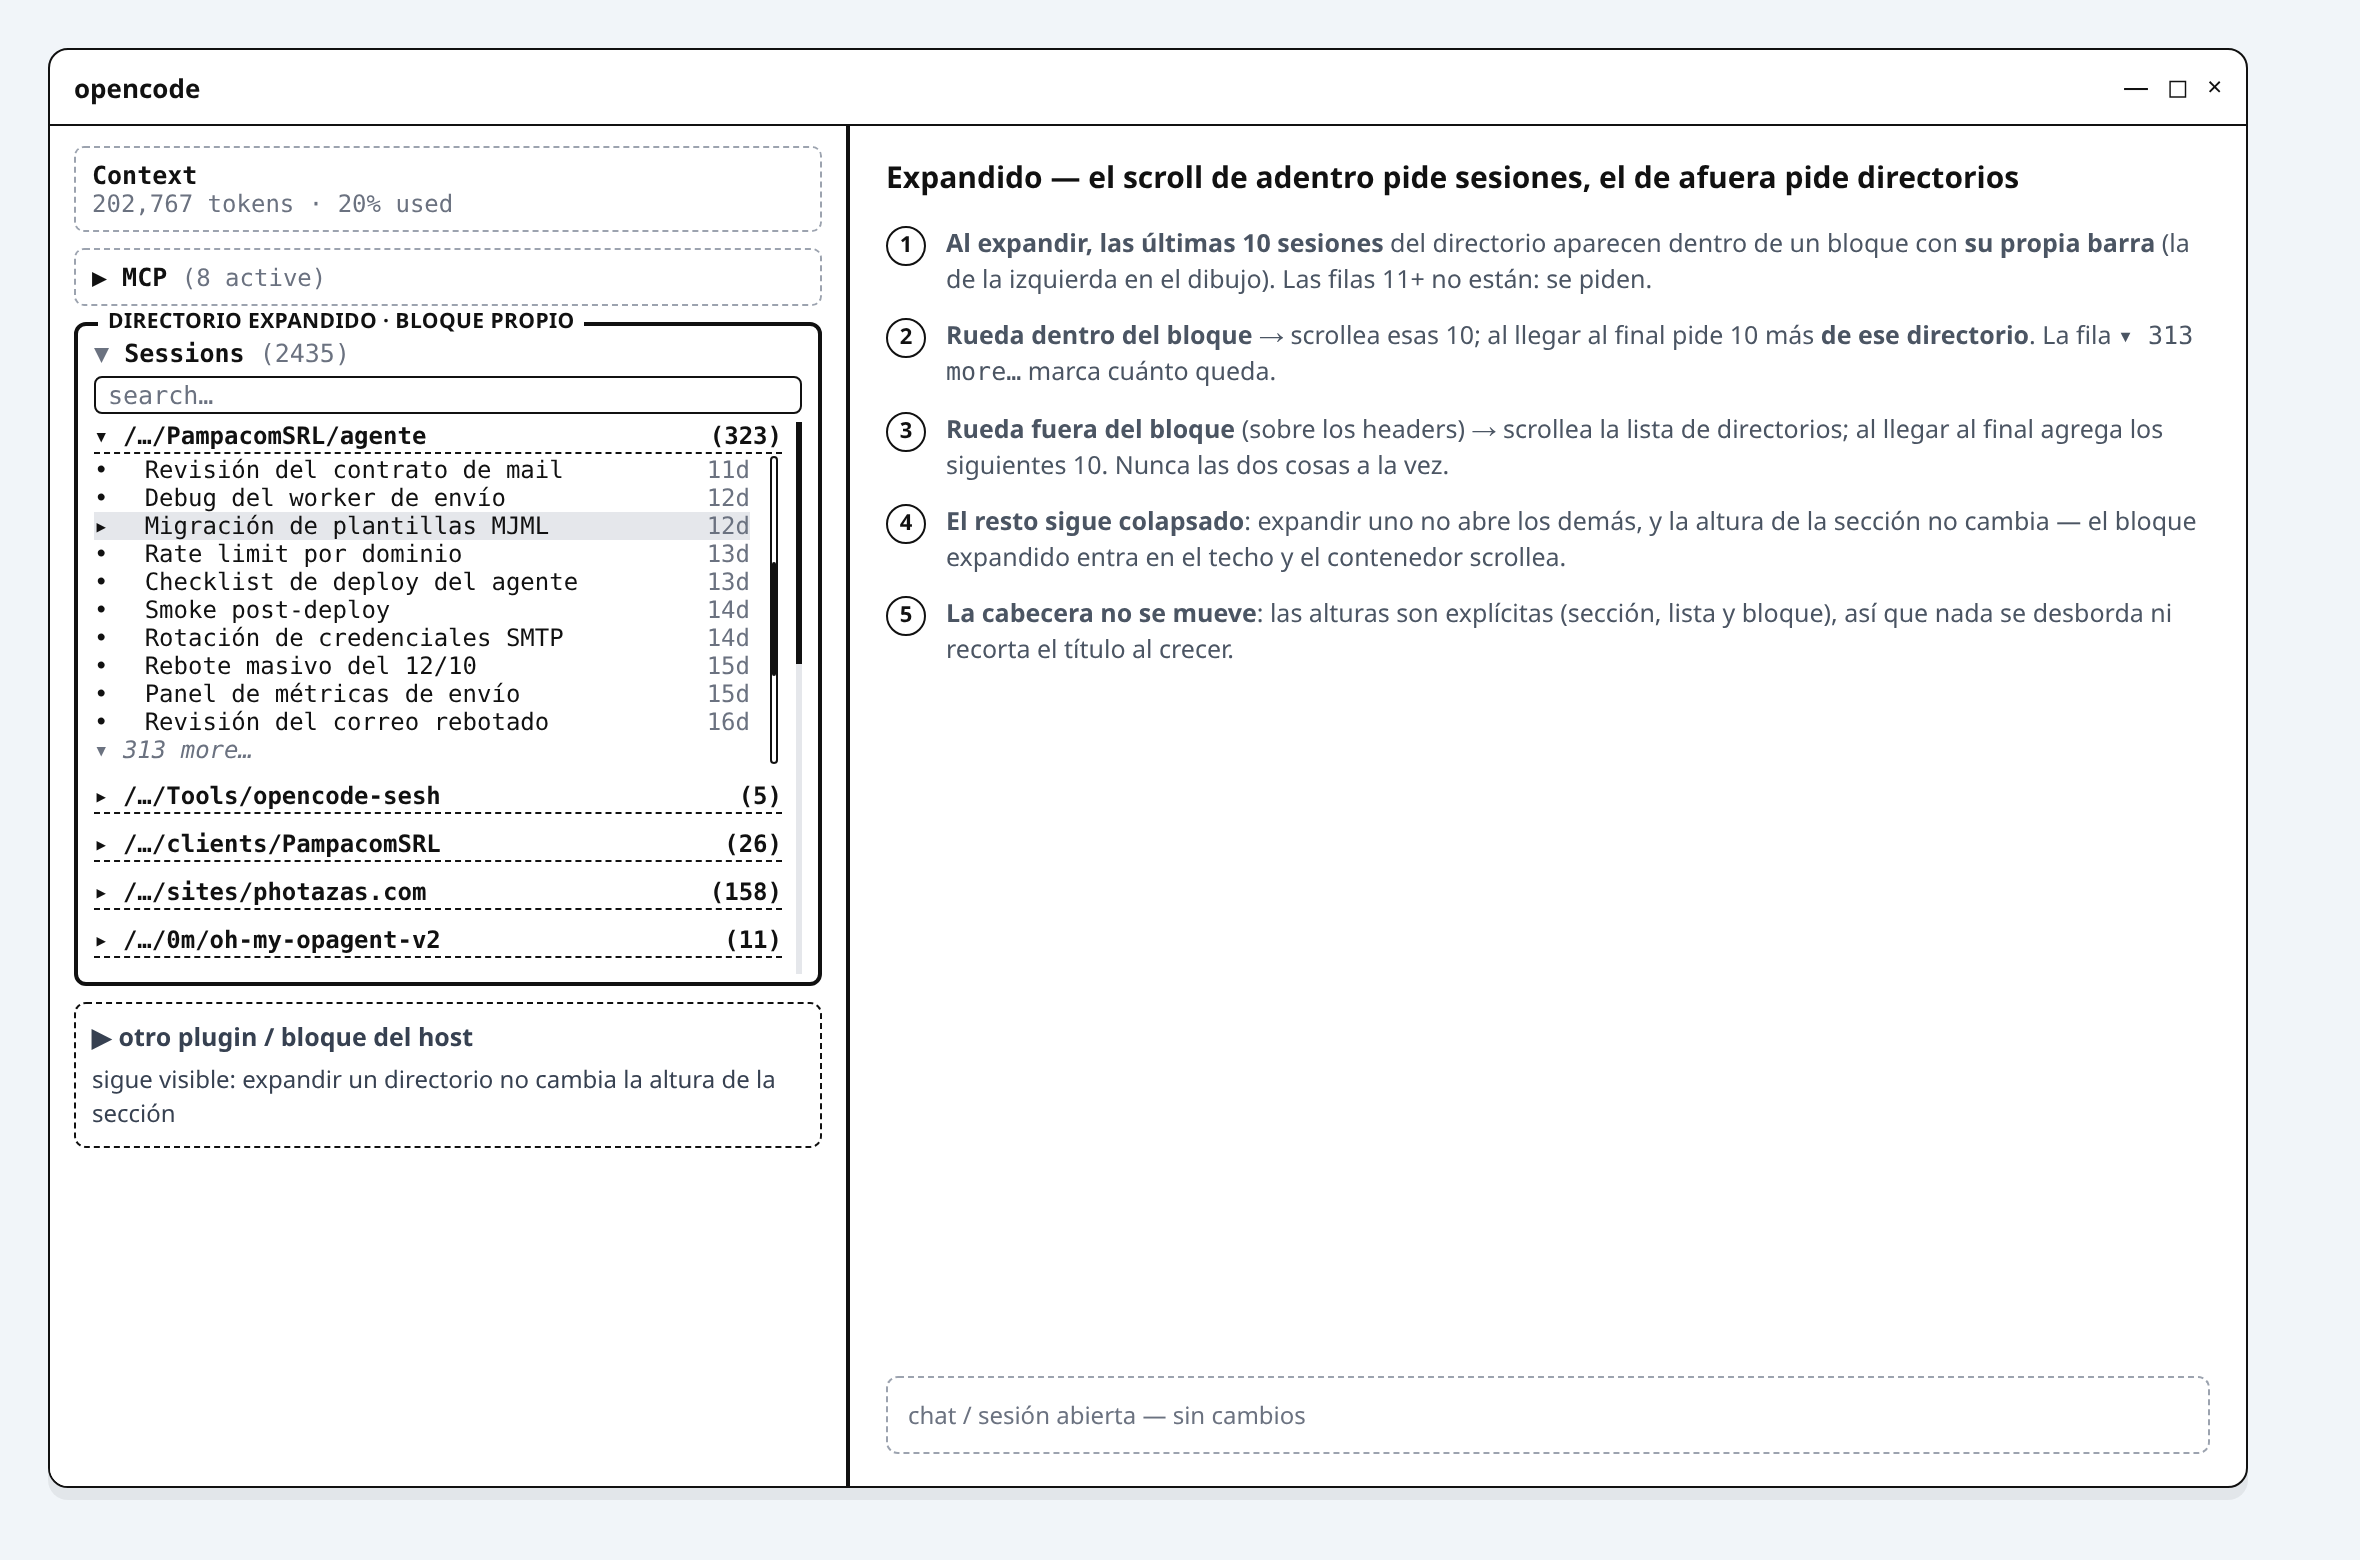
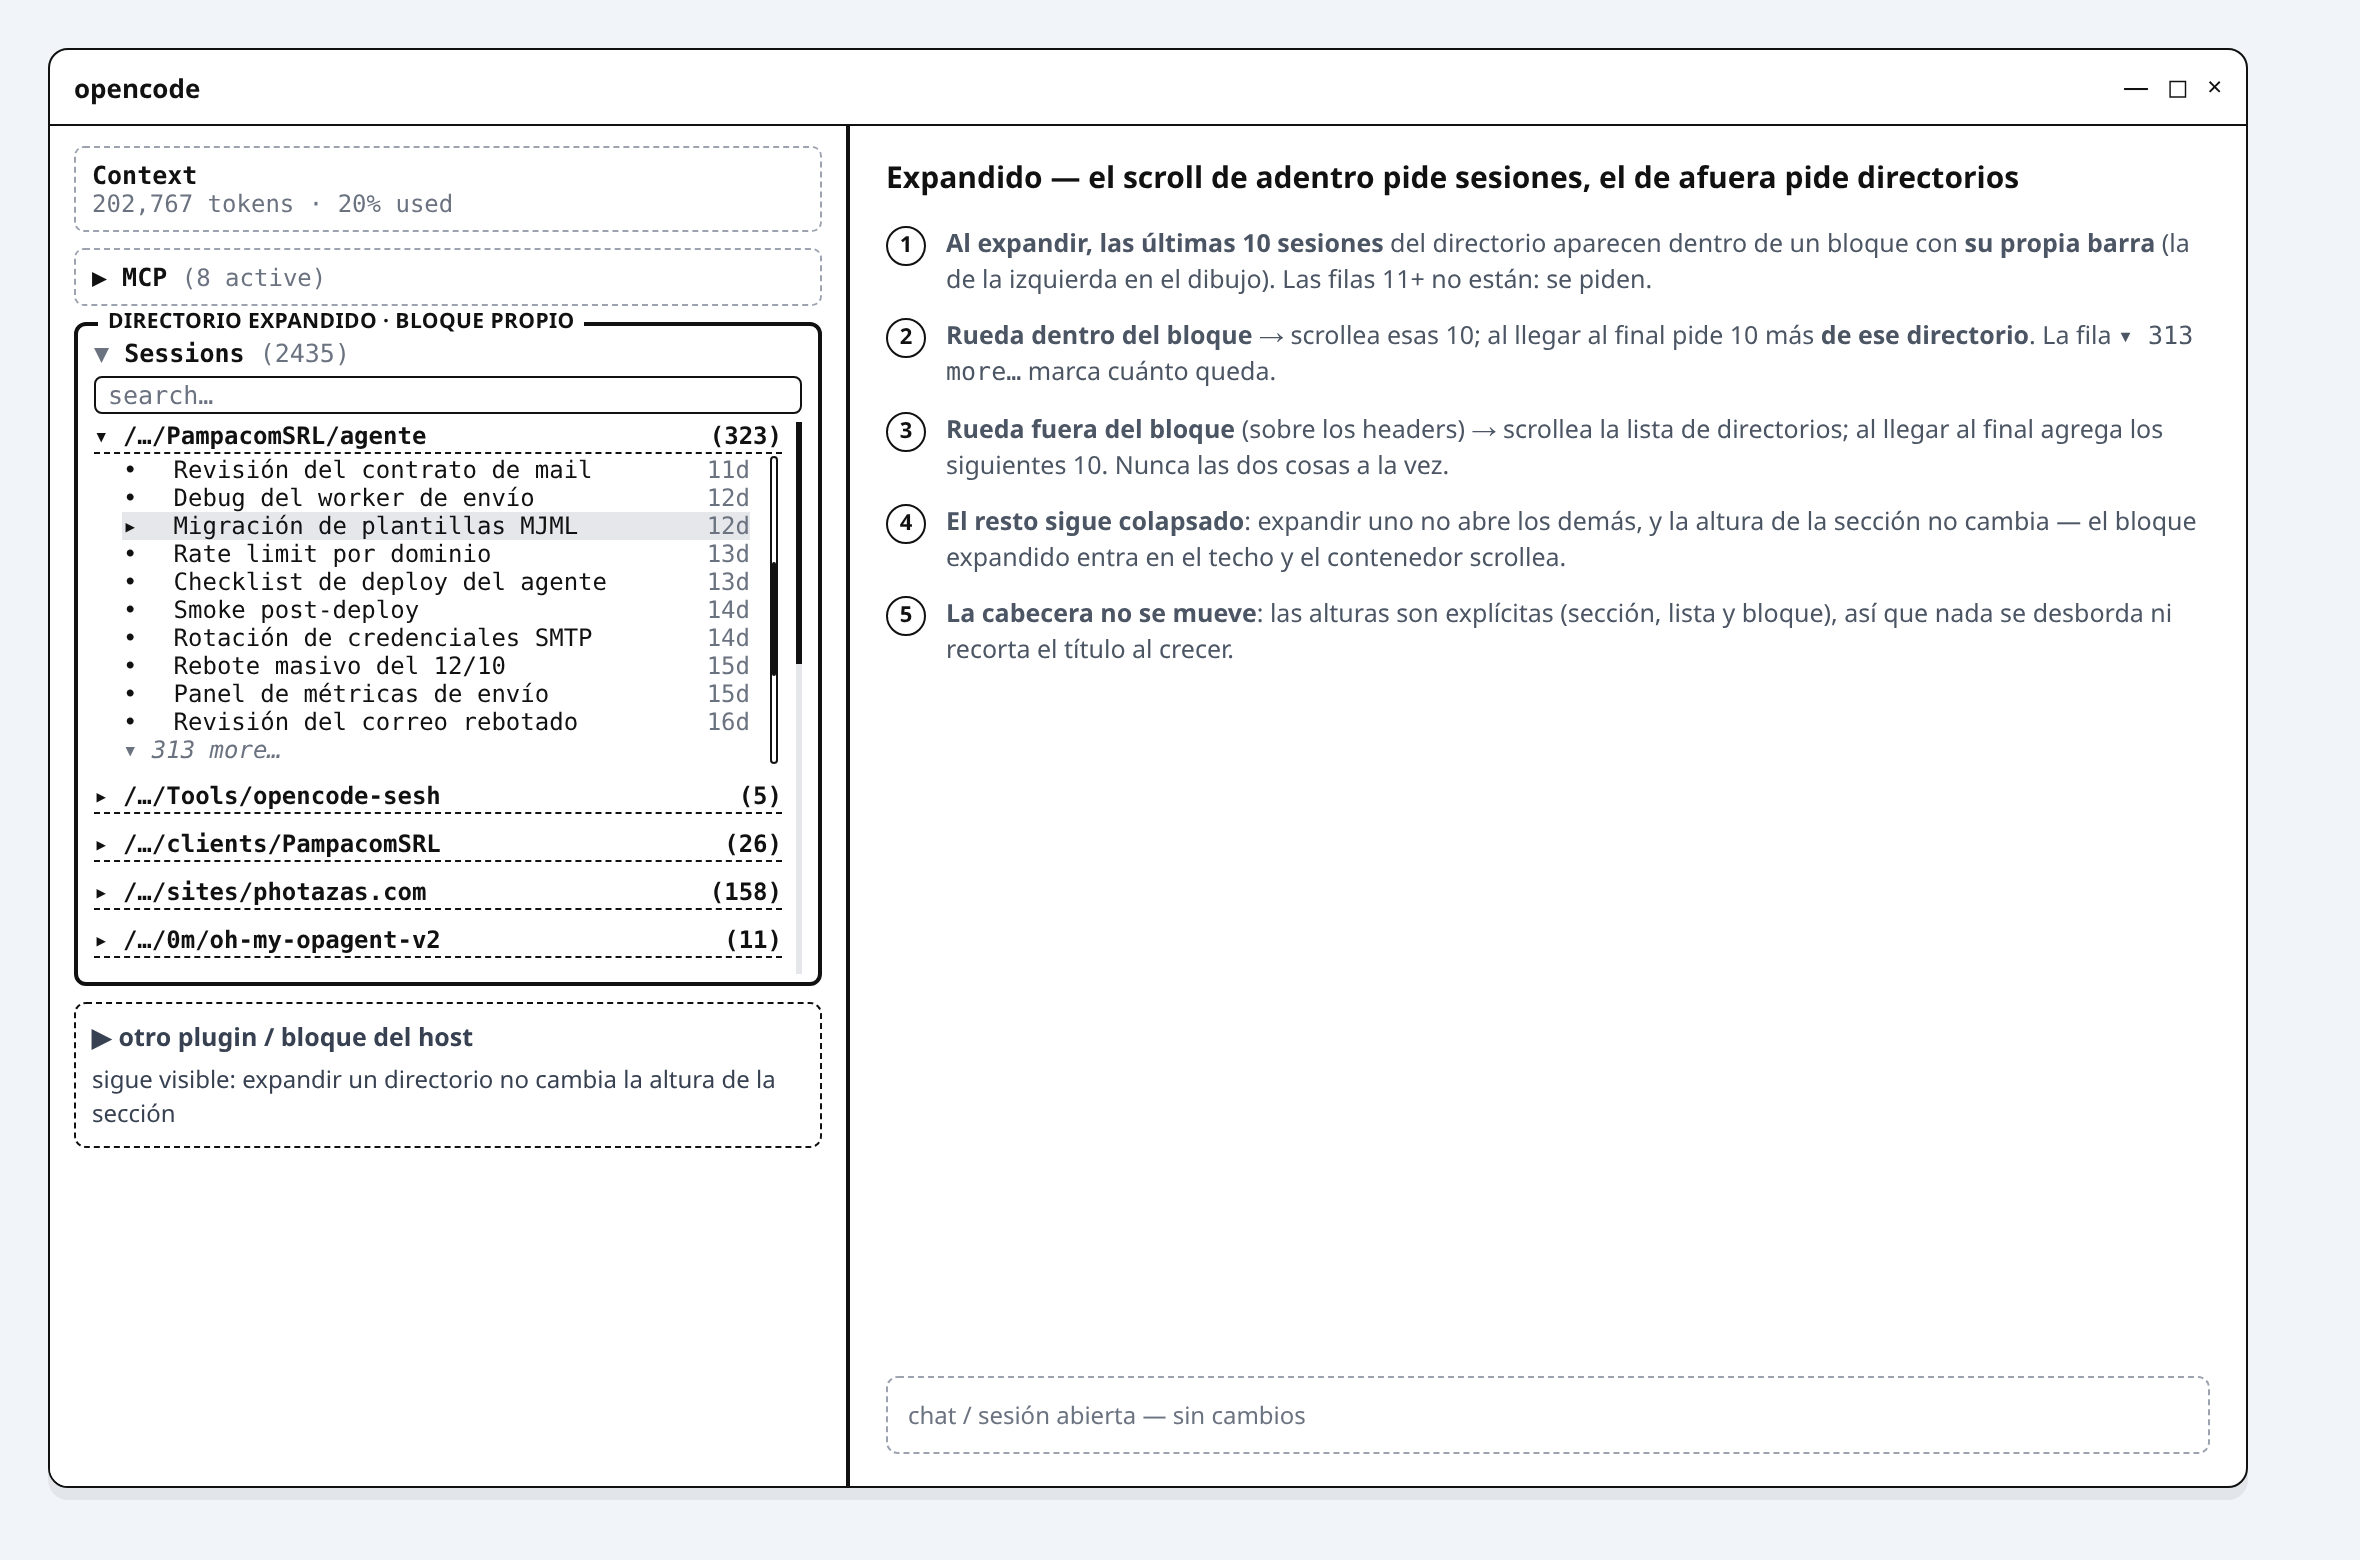
style(sidebar): align the list with the section heading
The directory rows carried a one-column indent and the sessions two more, so the
list started two columns right of the heading and lost width the host's own
sections use. Flush the directory headers with the triangle and drop the session
rows to a single indent step.

Mockups follow.

Changed region(s): [[0.0309, 0.2769, 0.2475, 0.4923]]

diff --git a/docs/mockups/sidebar.css b/docs/mockups/sidebar.css
@@ -24,9 +24,9 @@
 
 /* ---- grupos ---- */
 .grp{margin-bottom:8px}
-.grp__head{display:flex;justify-content:space-between;gap:8px;border-bottom:1.5px dashed #111;padding-bottom:1px;font-family:ui-monospace,Menlo,monospace;font-size:12px;font-weight:700}
+.grp__head{display:flex;padding-left:0;justify-content:space-between;gap:8px;border-bottom:1.5px dashed #111;padding-bottom:1px;font-family:ui-monospace,Menlo,monospace;font-size:12px;font-weight:700}
 .grp__count{font-weight:600}
-.rows{position:relative;padding:1px 16px 1px 0;font-family:ui-monospace,Menlo,monospace;font-size:12px}
+.rows{position:relative;padding:1px 16px 1px 2ch;font-family:ui-monospace,Menlo,monospace;font-size:12px}
 .rows__bar{position:absolute;right:2px;top:1px;bottom:1px;width:4px;border:1.5px solid #111;border-radius:2px}
 .rows__bar i{position:absolute;left:0;right:0;height:38%;background:#111;border-radius:2px}
 .row{display:flex;gap:8px;align-items:baseline}

diff --git a/tui-plugins/sesh-panel/tui.tsx b/tui-plugins/sesh-panel/tui.tsx
@@ -2313,7 +2313,7 @@ function SidebarSessions(props: { api: TuiPluginApi } & PinProps) {
         flexDirection="row"
         gap={1}
         height={1}
-        paddingLeft={3}
+        paddingLeft={2}
         paddingRight={1}
         backgroundColor={
           isActive(entry.id) && entry.id !== currentID()
@@ -2468,7 +2468,7 @@ function SidebarSessions(props: { api: TuiPluginApi } & PinProps) {
           <For each={sidebarRows()}>
           {(row) => {
             if (row.kind === "group") return (
-              <box flexDirection="row" height={1} paddingLeft={1} onMouseDown={(event: { button?: number; stopPropagation: () => void }) => {
+              <box flexDirection="row" height={1} onMouseDown={(event: { button?: number; stopPropagation: () => void }) => {
                 event.stopPropagation()
                 if (event.button === RIGHT_BUTTON) return
                 toggleGroup(row.dir)
